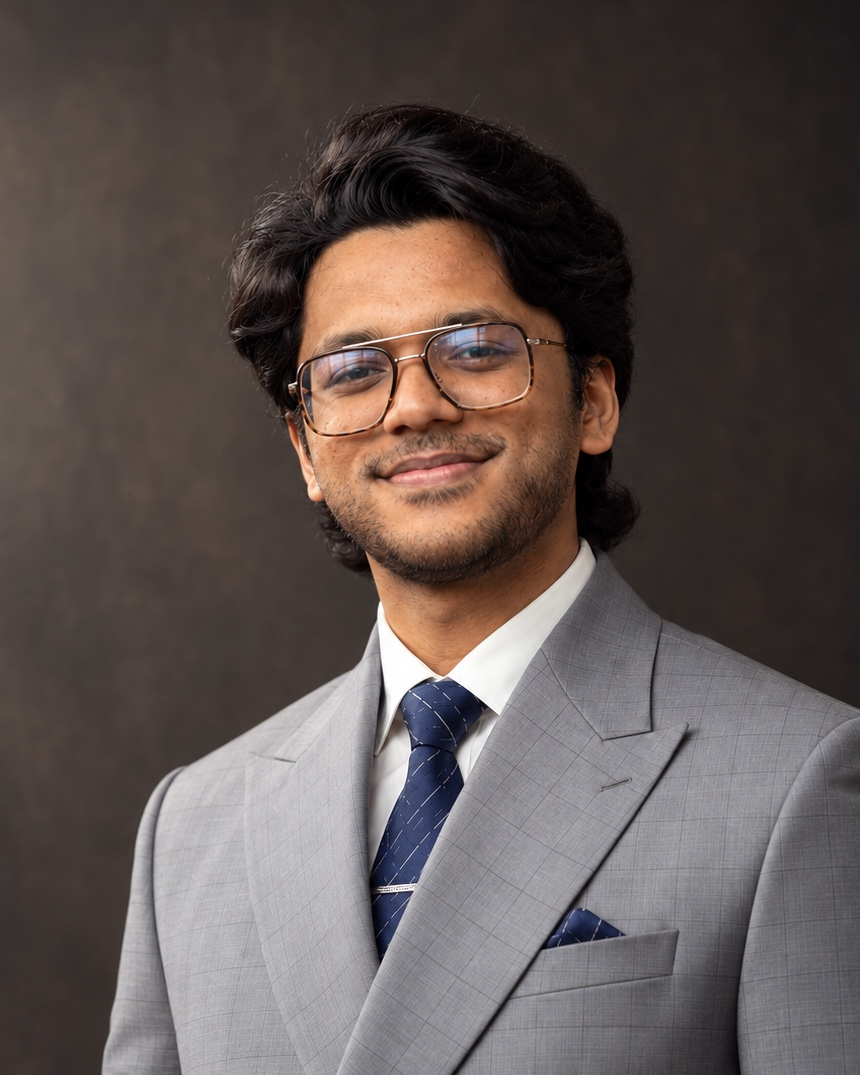
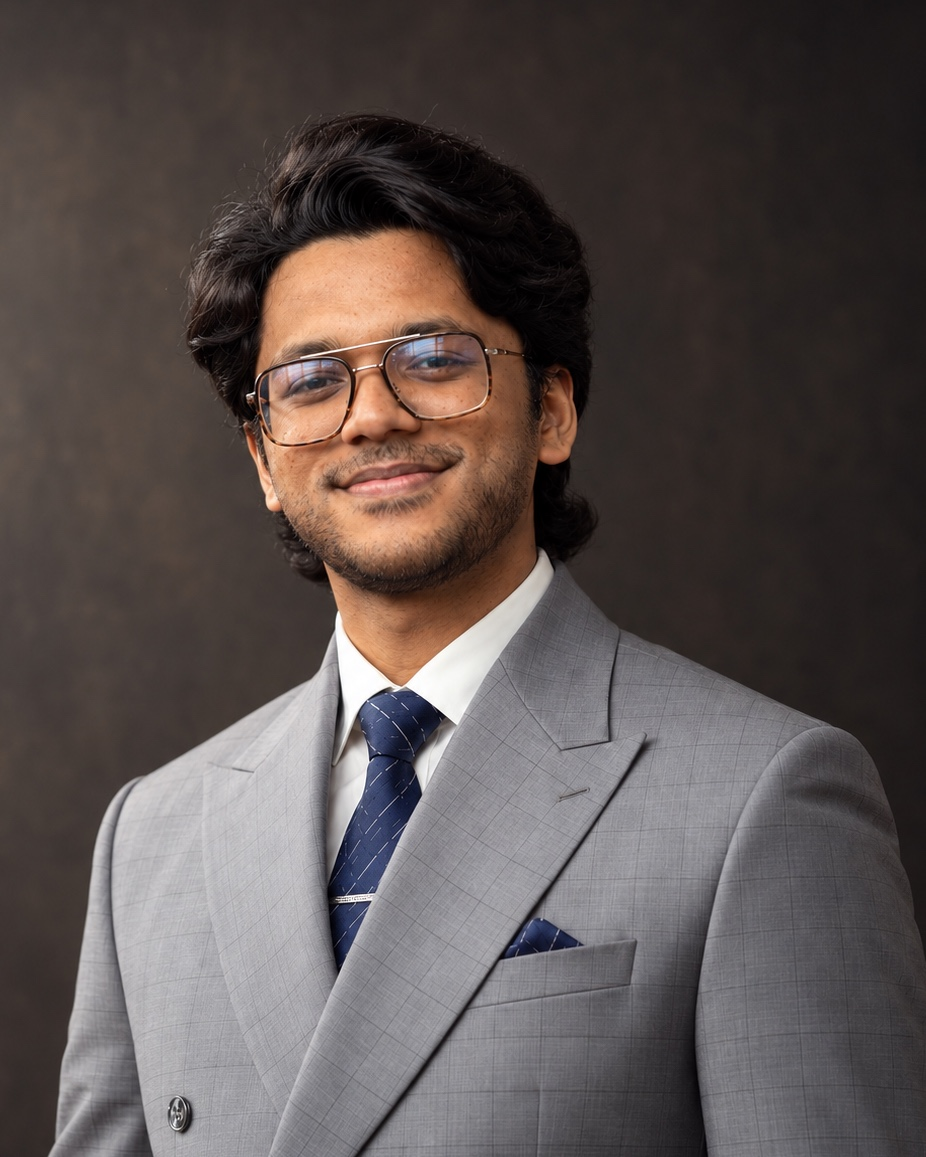
Portrait: zoom out slightly and shift so he sits nearer the centre

diff --git a/index.html b/index.html
@@ -42,7 +42,7 @@
 <ul class="interests" aria-label="Research interests"><li>Human-AI interaction</li><li>Trust and reliance on AI</li><li>Deceptive and persuasive design</li><li>Responsible technology</li></ul>
 <div class="actions"><a class="btn primary" href="mailto:azmain.one@gmail.com"><i class="ti ti-mail"></i>Email</a><a class="btn" href="https://www.linkedin.com/in/azmain-mahdi"><i class="ti ti-brand-linkedin"></i>LinkedIn</a></div>
 </div>
-<div class="portrait-wrap"><div class="portrait"><picture><source media="(max-width:640px)" srcset="assets/azmain-face.jpg?v=4"><img src="assets/azmain.jpg?v=4" alt="Portrait of Azmain Mahdi" width="860" height="1075"></picture></div></div>
+<div class="portrait-wrap"><div class="portrait"><picture><source media="(max-width:640px)" srcset="assets/azmain-face.jpg?v=4"><img src="assets/azmain.jpg?v=5" alt="Portrait of Azmain Mahdi" width="926" height="1157"></picture></div></div>
 </section>
 </div></div>
 <div class="wrap">
